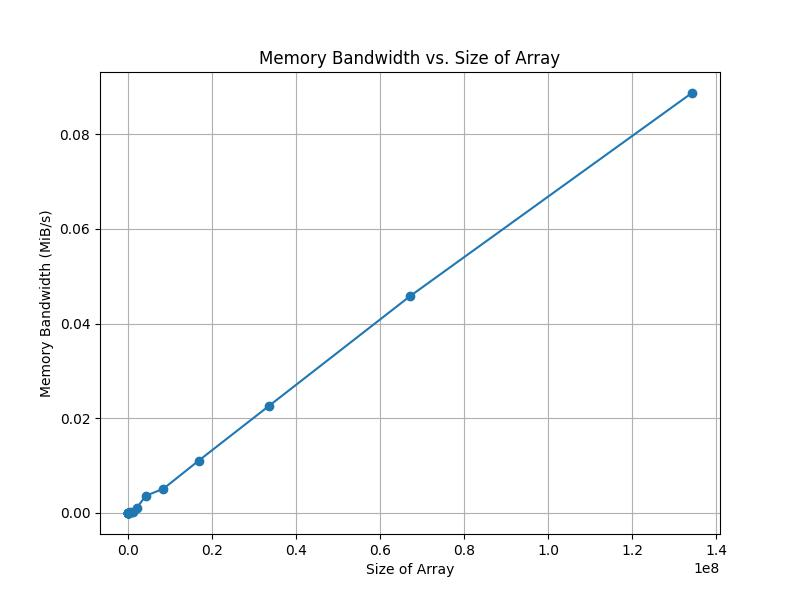
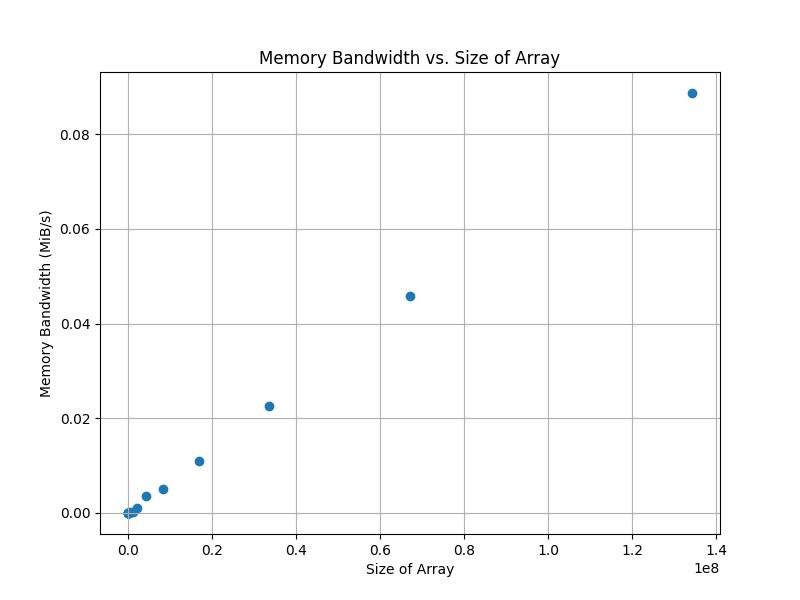
bug to change plot to scatter plot

diff --git a/CSE598_Project2_Handout/problem_1_and_2/plotAssingment1_2.py b/CSE598_Project2_Handout/problem_1_and_2/plotAssingment1_2.py
@@ -62,7 +62,7 @@ print("Max Times:", max_times)
 
 # Create the graph
 plt.figure(figsize=(8, 6))
-plt.plot(array_size, avgs, marker='o', linestyle='-')
+plt.scatter(array_size, avgs, marker='o', linestyle='-')
 plt.xlabel('Size of Array')
 plt.ylabel('Memory Bandwidth (MiB/s)')
 plt.title('Memory Bandwidth vs. Size of Array')
